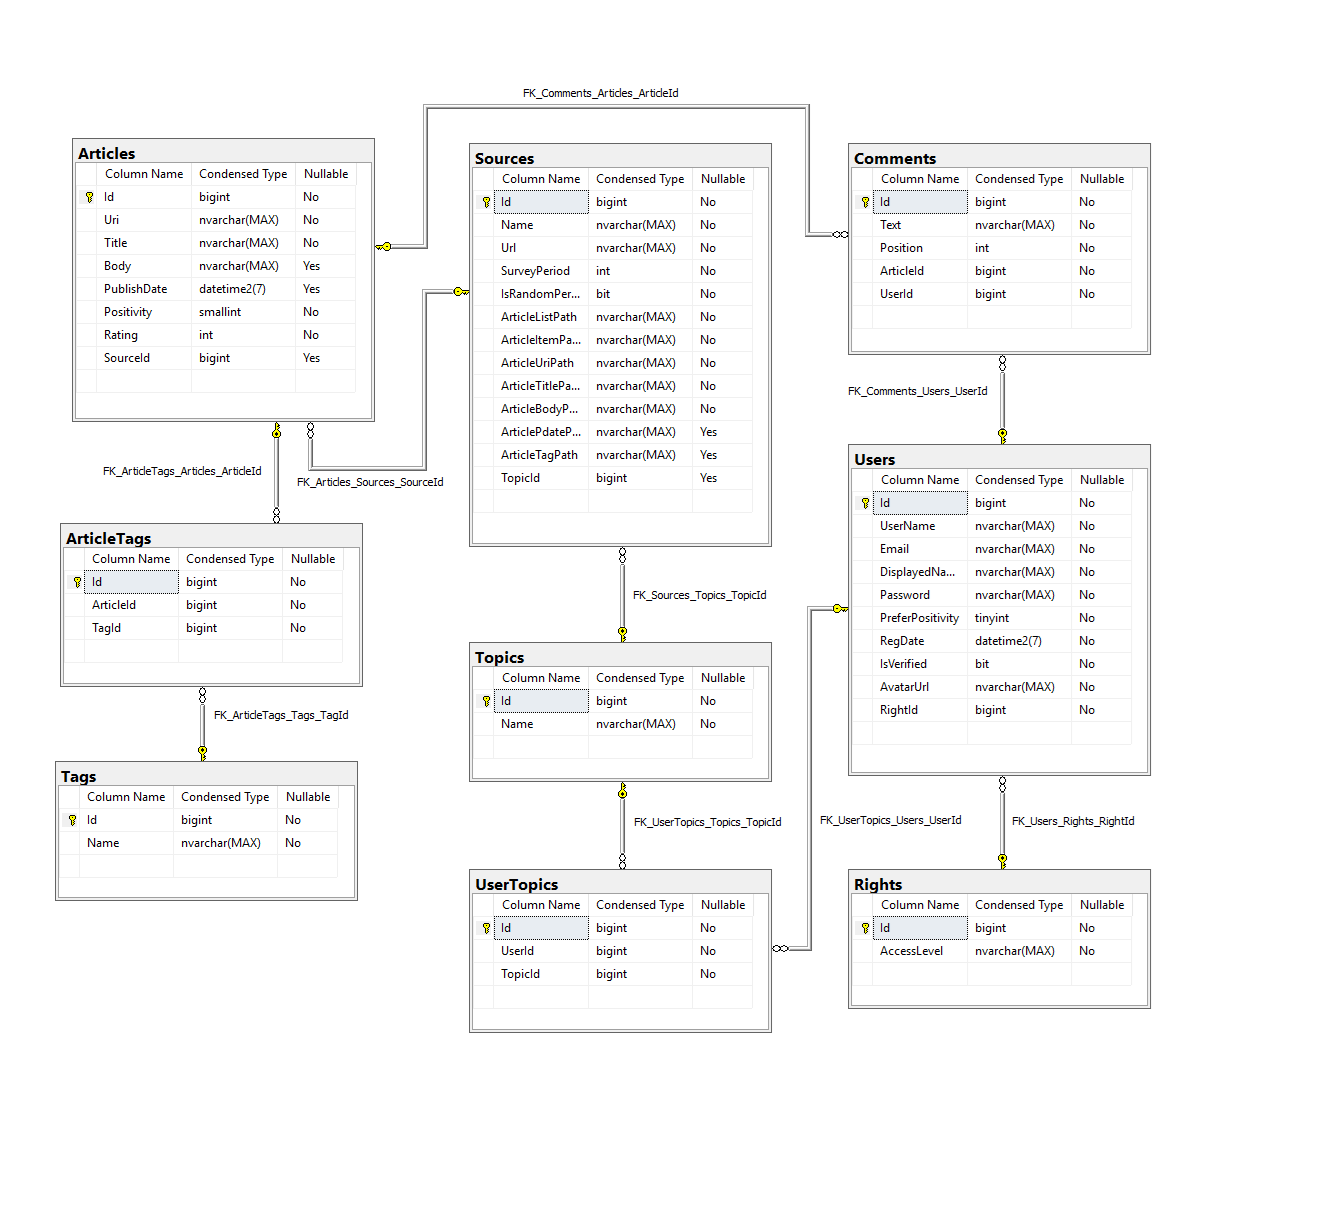
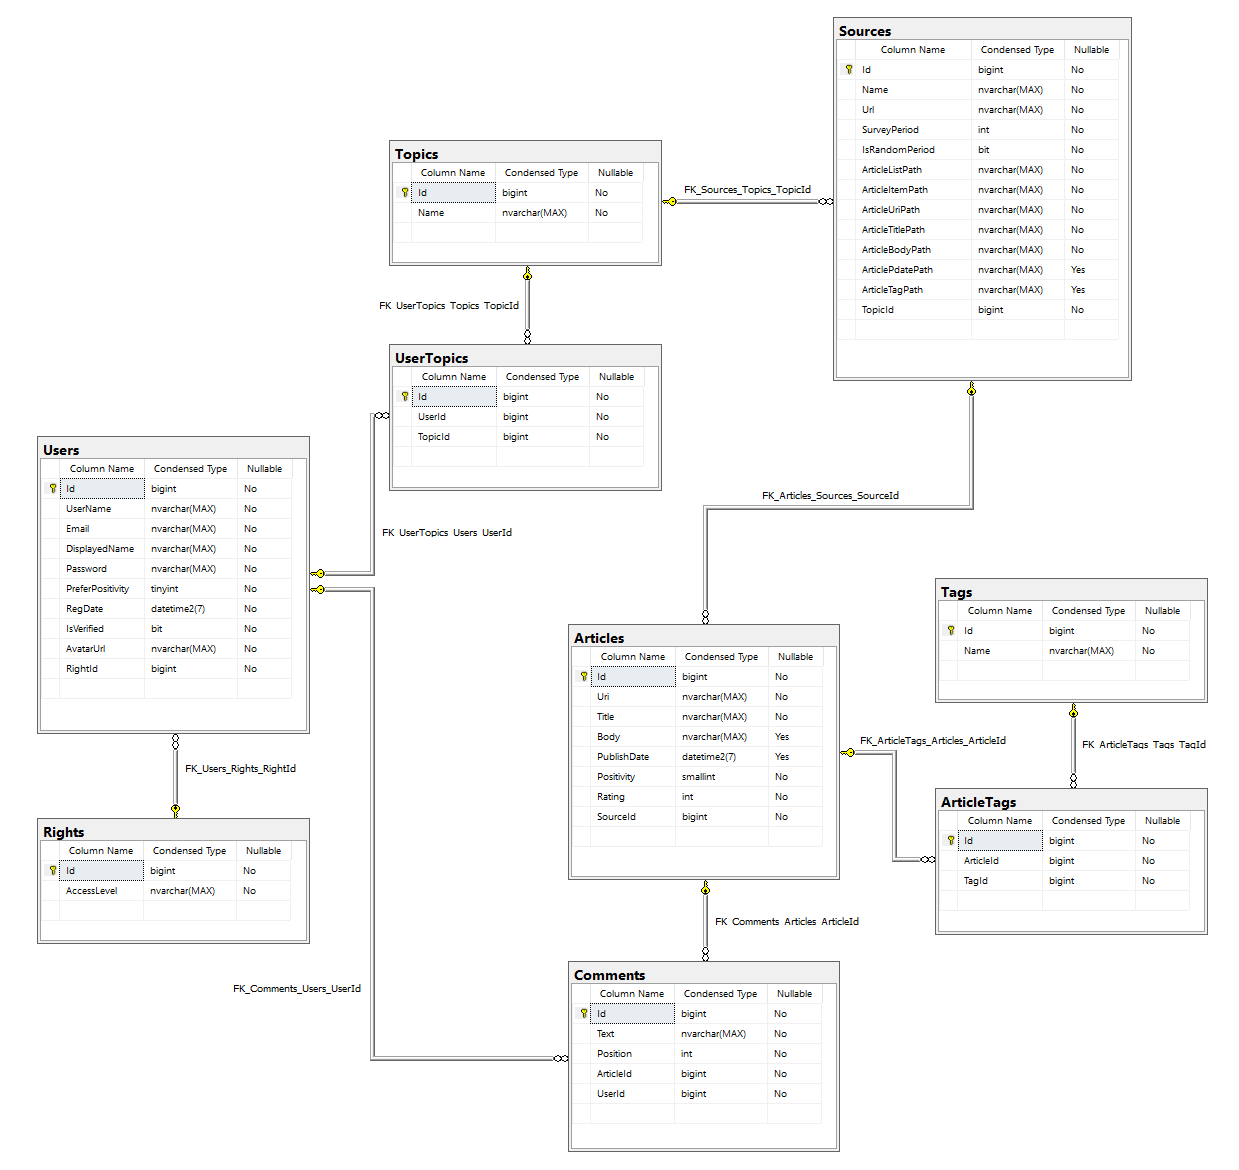
fixed problem with article service now article and source foreign keys are required

diff --git a/NewsByTheMood/NewsByTheMood.Services/DataProvider/Implement/ArticleService.cs b/NewsByTheMood/NewsByTheMood.Services/DataProvider/Implement/ArticleService.cs
@@ -25,13 +25,15 @@ namespace NewsByTheMood.Services.DataProvider.Implement
         public async Task<Article?> GetByIdAsync(Int64 id)
         {
             if(id <= 0) return null;
+
             return await this._dbContext.Articles
                 .AsNoTracking()
                 .Where(a => a.Id == id)
                 .Include(s => s.Source)
-                .Include(t => t.Source == null ? null : t.Source.Topic)
+                .Include(t => t.Source.Topic)
                 .Include(at => at.ArticleTags)
                 .ThenInclude(atn => atn.Tag)
+                .FirstOrDefaultAsync();
                 /*.Select(a => new ArticleDTO
                 {
                     Id = a.Id,
@@ -45,7 +47,6 @@ namespace NewsByTheMood.Services.DataProvider.Implement
                     TopicName = a.Source == null ? null : a.Source.Topic == null ? null : a.Source.Topic.Name,
                     ArticleTags = a.ArticleTags.Select(a => a.Tag.Name).ToArray(),
                 })*/
-                .FirstOrDefaultAsync();
         }
 
         // Get article with full related properties
@@ -64,15 +65,17 @@ namespace NewsByTheMood.Services.DataProvider.Implement
         public async Task<Article[]?> GetRangePreviewAsync(int pageSize, int pageNumber, short positivity)
         {
             if (pageSize <= 0 || pageNumber <= 0 || positivity <= 0) return null;
+
             return await this._dbContext.Articles
                 .AsNoTracking()
                 .Where(a => a.Positivity >= positivity)
-                .Include(a => a.Source)
-                .Include(t => t.Source == null ? null : t.Source.Topic)
+                .Include(s => s.Source)
+                .Include(t => t.Source.Topic)
                 .OrderByDescending(a => a.Id)
                 .Skip((pageNumber - 1) * pageSize)
                 .Take(pageSize)
-                /*.Select(a => new ArticlePreviewDTO
+                .ToArrayAsync();
+                 /*.Select(a => new ArticlePreviewDTO
                 {
                     Id = a.Id,
                     Title = a.Title,
@@ -82,6 +85,26 @@ namespace NewsByTheMood.Services.DataProvider.Implement
                     SourceName = a.Source == null ? null : a.Source.Name,
                     TopicName = a.Source == null ? null : a.Source.Topic == null ? null : a.Source.Topic.Name 
                 })*/
+        }
+
+        public async Task<Article[]?> GetRangePreviewByTagAsync(int pageSize, int pageNumber, short positivity, string tagName)
+        {
+            if (pageSize <= 0 || pageNumber <= 0 || positivity <= 0 || tagName.IsNullOrEmpty()) return null;
+
+            return await this._dbContext.ArticleTags
+                .AsNoTracking()
+                .Where(t => t.Tag.Name.Equals(tagName))
+                .Select(a => new Article
+                {
+                    Id = a.Article.Id,
+                    Uri = a.Article.Uri,
+                    Title = a.Article.Title,
+                    Body = a.Article.Body,
+                    PublishDate = a.Article.PublishDate,
+                    Positivity = a.Article.Positivity,
+                    Rating = a.Article.Rating,
+                    Source = a.Article.Source,
+                })
                 .ToArrayAsync();
         }
 
@@ -89,24 +112,16 @@ namespace NewsByTheMood.Services.DataProvider.Implement
         public async Task<Article[]?> GetRangePreviewByTopicAsync(int pageSize, int pageNumber, short positivity, string topicName)
         {
             if (pageSize <= 0 || pageNumber <= 0 || positivity <= 0 || topicName.IsNullOrEmpty()) return null;
-
-            var topicId = await this._dbContext.Topics
-                .Where(a => a.Name.Equals(topicName))
-                .FirstOrDefaultAsync();
-            if(topicId == null) return null;
-
             return await this._dbContext.Articles
                 .AsNoTracking()
                 .Where(a => a.Positivity >= positivity)
                 .Include(a => a.Source)
-                .Include(t => t.Source == null ? null : t.Source.Topic)
-                .Where( a => ( 
-                a.Source != null && 
-                a.Source.Topic != null && 
-                a.Source.Topic.Id == topicId.Id))
+                .Include(t => t.Source.Topic)
+                .Where(t => t.Source.Topic.Name.Equals(topicName))
                 .OrderByDescending(a => a.Id)
                 .Skip((pageNumber - 1) * pageSize)
                 .Take(pageSize)
+                .ToArrayAsync();
                 /*.Select(a => new ArticlePreviewDTO
                 {
                     Id = a.Id,
@@ -117,7 +132,6 @@ namespace NewsByTheMood.Services.DataProvider.Implement
                     SourceName = a.Source!.Name,
                     TopicName = a.Source!.Topic!.Name
                 })*/
-                .ToArrayAsync();
         }
     }
 }

diff --git a/NewsByTheMood/NewsByTheMood.Data/Migrations/20250207175412_make_foriegn_key_reqiured.cs b/NewsByTheMood/NewsByTheMood.Data/Migrations/20250207175412_make_foriegn_key_reqiured.cs
@@ -1,0 +1,102 @@
+using Microsoft.EntityFrameworkCore.Migrations;
+
+#nullable disable
+
+namespace NewsByTheMood.Data.Migrations
+{
+    /// <inheritdoc />
+    public partial class make_foriegn_key_reqiured : Migration
+    {
+        /// <inheritdoc />
+        protected override void Up(MigrationBuilder migrationBuilder)
+        {
+            migrationBuilder.DropForeignKey(
+                name: "FK_Articles_Sources_SourceId",
+                table: "Articles");
+
+            migrationBuilder.DropForeignKey(
+                name: "FK_Sources_Topics_TopicId",
+                table: "Sources");
+
+            migrationBuilder.AlterColumn<long>(
+                name: "TopicId",
+                table: "Sources",
+                type: "bigint",
+                nullable: false,
+                defaultValue: 0L,
+                oldClrType: typeof(long),
+                oldType: "bigint",
+                oldNullable: true);
+
+            migrationBuilder.AlterColumn<long>(
+                name: "SourceId",
+                table: "Articles",
+                type: "bigint",
+                nullable: false,
+                defaultValue: 0L,
+                oldClrType: typeof(long),
+                oldType: "bigint",
+                oldNullable: true);
+
+            migrationBuilder.AddForeignKey(
+                name: "FK_Articles_Sources_SourceId",
+                table: "Articles",
+                column: "SourceId",
+                principalTable: "Sources",
+                principalColumn: "Id",
+                onDelete: ReferentialAction.NoAction,
+                onUpdate: ReferentialAction.Cascade);
+
+            migrationBuilder.AddForeignKey(
+                name: "FK_Sources_Topics_TopicId",
+                table: "Sources",
+                column: "TopicId",
+                principalTable: "Topics",
+                principalColumn: "Id",
+                onDelete: ReferentialAction.NoAction,
+                onUpdate: ReferentialAction.Cascade);   
+        }
+
+        /// <inheritdoc />
+        protected override void Down(MigrationBuilder migrationBuilder)
+        {
+            migrationBuilder.DropForeignKey(
+                name: "FK_Articles_Sources_SourceId",
+                table: "Articles");
+
+            migrationBuilder.DropForeignKey(
+                name: "FK_Sources_Topics_TopicId",
+                table: "Sources");
+
+            migrationBuilder.AlterColumn<long>(
+                name: "TopicId",
+                table: "Sources",
+                type: "bigint",
+                nullable: true,
+                oldClrType: typeof(long),
+                oldType: "bigint");
+
+            migrationBuilder.AlterColumn<long>(
+                name: "SourceId",
+                table: "Articles",
+                type: "bigint",
+                nullable: true,
+                oldClrType: typeof(long),
+                oldType: "bigint");
+
+            migrationBuilder.AddForeignKey(
+                name: "FK_Articles_Sources_SourceId",
+                table: "Articles",
+                column: "SourceId",
+                principalTable: "Sources",
+                principalColumn: "Id");
+
+            migrationBuilder.AddForeignKey(
+                name: "FK_Sources_Topics_TopicId",
+                table: "Sources",
+                column: "TopicId",
+                principalTable: "Topics",
+                principalColumn: "Id");
+        }
+    }
+}

diff --git a/NewsByTheMood/NewsByTheMood.MVC/Controllers/ArticlesController.cs b/NewsByTheMood/NewsByTheMood.MVC/Controllers/ArticlesController.cs
@@ -45,8 +45,8 @@ namespace NewsByTheMood.MVC.Controllers
                     PublishDate = a.PublishDate.ToString(),
                     Positivity = a.Positivity,
                     Rating = a.Rating,
-                    SourceName = a.Source?.Name,
-                    TopicName = a.Source?.Topic?.Name
+                    SourceName = a.Source.Name,
+                    TopicName = a.Source.Topic.Name
                 })
                 .ToArray();
 
@@ -108,7 +108,7 @@ namespace NewsByTheMood.MVC.Controllers
                 Rating = article.Rating,
                 SourceName = article.Source?.Name,
                 TopicName = article.Source?.Topic?.Name,
-                //ArticleTags = article.ArticleTags.Select(t => t.Tag.Name).ToArray() // dont work
+                ArticleTags = article.ArticleTags.Select(t => t.Tag.Name).ToArray()
             };
             return View(model);
         }

diff --git a/NewsByTheMood/NewsByTheMood.Data/Migrations/20250207175412_make_foriegn_key_reqiured.Designer.cs b/NewsByTheMood/NewsByTheMood.Data/Migrations/20250207175412_make_foriegn_key_reqiured.Designer.cs
@@ -3,6 +3,7 @@ using System;
 using Microsoft.EntityFrameworkCore;
 using Microsoft.EntityFrameworkCore.Infrastructure;
 using Microsoft.EntityFrameworkCore.Metadata;
+using Microsoft.EntityFrameworkCore.Migrations;
 using Microsoft.EntityFrameworkCore.Storage.ValueConversion;
 using NewsByTheMood.Data;
 
@@ -11,9 +12,11 @@ using NewsByTheMood.Data;
 namespace NewsByTheMood.Data.Migrations
 {
     [DbContext(typeof(NewsByTheMoodDbContext))]
-    partial class NewsByTheMoodDbContextModelSnapshot : ModelSnapshot
+    [Migration("20250207175412_make_foriegn_key_reqiured")]
+    partial class make_foriegn_key_reqiured
     {
-        protected override void BuildModel(ModelBuilder modelBuilder)
+        /// <inheritdoc />
+        protected override void BuildTargetModel(ModelBuilder modelBuilder)
         {
 #pragma warning disable 612, 618
             modelBuilder

diff --git a/NewsByTheMood/NewsByTheMood.Services/DataProvider/Implement/CommentService.cs b/NewsByTheMood/NewsByTheMood.Services/DataProvider/Implement/CommentService.cs
@@ -30,6 +30,7 @@ namespace NewsByTheMood.Services.DataProvider.Implement
                 .OrderByDescending(c => c.Position)
                 .Skip((pageNumber - 1) * pageSize)
                 .Take(pageSize)
+                .ToArrayAsync();
                 /*.Select(a => new CommentDTO
                 {
                     Id = a.Id,
@@ -39,7 +40,6 @@ namespace NewsByTheMood.Services.DataProvider.Implement
                     UserDisplayedName = a.User.DisplayedName,
                     AvatarUrl = a.User.AvatarUrl
                 })*/
-                .ToArrayAsync();
         }
     }
 }

diff --git a/NewsByTheMood/NewsByTheMood.Services/DataProvider/Abstract/IArticleService.cs b/NewsByTheMood/NewsByTheMood.Services/DataProvider/Abstract/IArticleService.cs
@@ -8,6 +8,7 @@ namespace NewsByTheMood.Services.DataProvider.Abstract
         public Task<Article?> GetByIdAsync(Int64 id);
         public Task<Article[]?> GetRangePreviewAsync(int pageSize, int pageNumber, short positivity);
         public Task<Article[]?> GetRangePreviewByTopicAsync(int pageSize, int pageNumber, short positivity, string topicName);
+        public Task<Article[]?> GetRangePreviewByTagAsync(int pageSize, int pageNumber, short positivity, string tagName);
 
     }
 }

diff --git a/NewsByTheMood/NewsByTheMood.Data/Entities/Article.cs b/NewsByTheMood/NewsByTheMood.Data/Entities/Article.cs
@@ -12,9 +12,9 @@
         public int Rating { get; set; }
 
         // FK
-        public Int64? SourceId { get; set; }
+        public Int64 SourceId { get; set; }
         // nav property
-        public Source? Source { get; set; }
+        public Source Source { get; set; }
         // nav property
         public List<ArticleTag> ArticleTags { get; set; }
         // nav property

diff --git a/NewsByTheMood/NewsByTheMood.Data/Entities/Source.cs b/NewsByTheMood/NewsByTheMood.Data/Entities/Source.cs
@@ -17,9 +17,9 @@
         public string? ArticleTagPath { get; set; }
 
         // FK
-        public Int64? TopicId { get; set; }
+        public Int64 TopicId { get; set; }
         // nav property
-        public Topic? Topic { get; set; }
+        public Topic Topic { get; set; }
         // nav property
         public List<Article> Articles { get; set; }
     }
